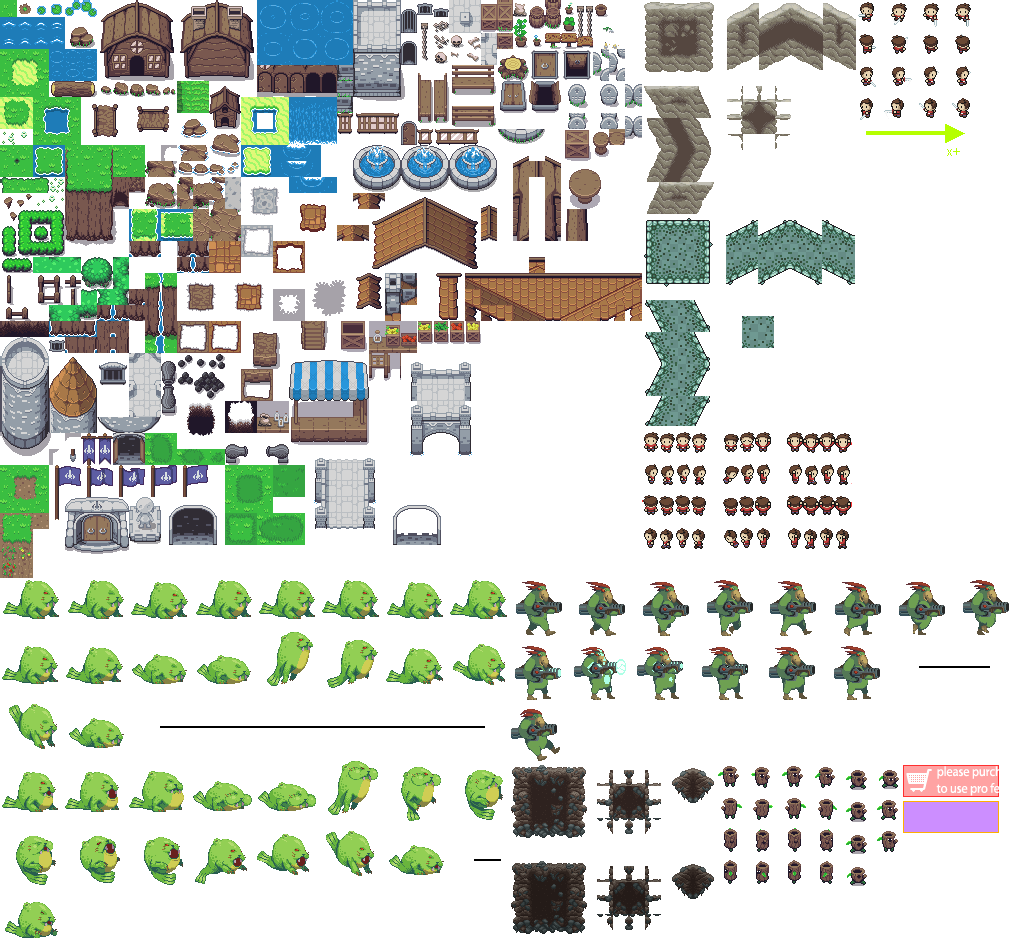
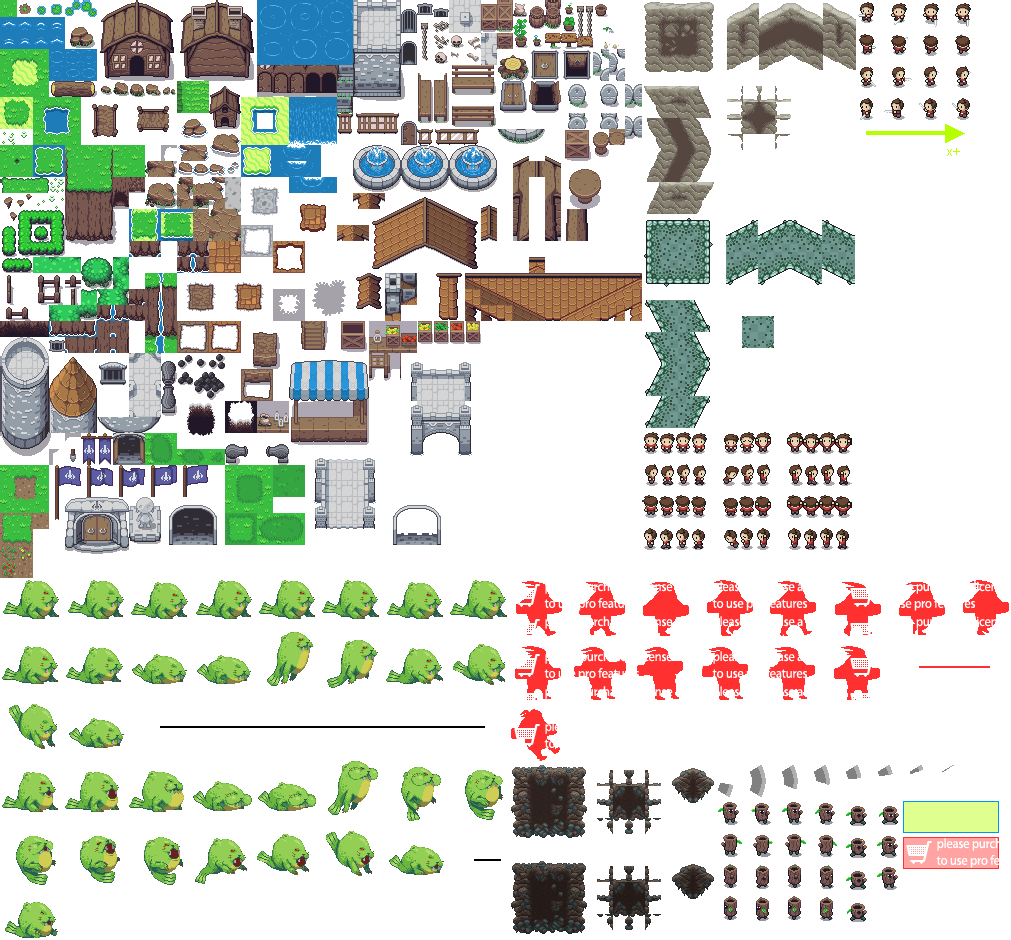
sword slash start

Changed region(s): [[0.7052, 0.8021, 1.0, 0.9872], [0.4906, 0.617, 0.8892, 0.8021], [0.8892, 0.617, 1.0, 0.6787]]

diff --git a/Tygem/JS/game.js b/Tygem/JS/game.js
@@ -3732,6 +3732,23 @@ class SpriteRenderer extends PackedImageRenderer {
         this.isAnimationPlaying = () => {
             return this.animPlaying;
         };
+        this.isAtEndOfAnimation = () => {
+            if (this.animation === null)
+                return false;
+            if (this.animPlaying)
+                return false;
+            if (this.animSpeed >= 0) {
+                if (this.animTime >= this.animation.getDuration() - .0002) {
+                    return true;
+                }
+            }
+            else {
+                if (this.animTime <= .0001) {
+                    return true;
+                }
+            }
+            return false;
+        };
         this.getAnimationTime = () => {
             return this.animTime;
         };
@@ -3810,6 +3827,25 @@ class SpriteRenderer extends PackedImageRenderer {
         this.animSpeed = 1;
         this.animPlaying = false;
         this.name = "SpriteRenderer";
+    }
+}
+class VisualEffect extends Component {
+    constructor() {
+        super();
+        this.onStart = () => {
+            this.spriteRenderer = this.getComponent(SpriteRenderer);
+        };
+        this.onUpdate = () => {
+            if (this.spriteRenderer.isAtEndOfAnimation()) {
+                this.gameObject.markForDestroy();
+            }
+        };
+        this.onDestroy = () => {
+            this.spriteRenderer = null;
+        };
+        this.spriteRenderer = null;
+        this.name = "VisualEffect";
+        this.componentProperties.requireComponent(SpriteRenderer);
     }
 }
 class ReceivesDamage extends Component {
@@ -6429,9 +6465,11 @@ Animation.addAnimation("hero_idle_up", "hero/walk.png", [26], 10, true);
 Animation.addAnimation("hero_walk_down", "hero/walk.png", [0, 1, 2, 3], 8, true);
 Animation.addAnimation("hero_walk_right", "hero/walk.png", [13, 14, 15, 16], 8, true);
 Animation.addAnimation("hero_walk_up", "hero/walk.png", [26, 27, 28, 29], 8, true);
-Animation.addAnimation("hero_slash_down", "hero/attack.png", [0, 1, 2, 3], 15, false);
-Animation.addAnimation("hero_slash_up", "hero/attack.png", [4, 5, 6, 7], 15, false);
-Animation.addAnimation("hero_slash_right", "hero/attack.png", [8, 9, 10, 11], 15, false);
+Animation.addAnimation("hero_slash_down", "hero/attack.png", [0, 1, 2, 3], 4 / .2, false);
+Animation.addAnimation("hero_slash_up", "hero/attack.png", [4, 5, 6, 7], 4 / .2, false);
+Animation.addAnimation("hero_slash_right", "hero/attack.png", [8, 9, 10, 11], 4 / .2, false);
+Spritesheet.addSpritesheet("hero/sword slash.png", 32, 48, 8, 8);
+Animation.addAnimation("hero_sword_slash", "hero/sword slash.png", [0, 1, 2, 3, 4, 5, 6, 7], 8 / .25, false);
 Spritesheet.addSpritesheet("log/log.png", 32, 32, 6, 23);
 Animation.addAnimation("log_idle_down", "log/log.png", [0], 10, true);
 Animation.addAnimation("log_idle_up", "log/log.png", [6], 10, true);
@@ -7700,10 +7738,10 @@ var Comps;
     class Hero extends Component {
         constructor() {
             super();
-            this.speed = 70;
+            this.speed = 90;
             this.accel = 500;
-            this.friction = 700;
-            this.slashDuration = .3;
+            this.friction = 800;
+            this.slashDuration = .25;
             this.onStart = () => {
                 this.actor = this.getComponent(Actor);
                 this.spriteRenderer = this.getComponent(SpriteRenderer);
@@ -7827,24 +7865,42 @@ var Comps;
                     return;
                 this.state = Hero_State.SLASH;
                 this.time = 0;
+                let slashOffsetMag = 16;
+                let rect = this.actor.getRect();
+                let ssGO = Prefabs.SwordSlash();
                 let anim = "";
                 switch (this.faceDirection) {
                     case Direction.LEFT:
+                        anim = "hero_slash_right";
+                        ssGO.transform.x = rect.x - slashOffsetMag;
+                        ssGO.transform.y = rect.y + rect.height / 2;
+                        ssGO.transform.scaleX = -1;
+                        break;
                     case Direction.RIGHT:
                         anim = "hero_slash_right";
+                        ssGO.transform.x = rect.x + rect.width + slashOffsetMag;
+                        ssGO.transform.y = rect.y + rect.height / 2;
                         break;
                     case Direction.UP:
                         anim = "hero_slash_up";
+                        ssGO.transform.x = rect.x + rect.width / 2;
+                        ssGO.transform.y = rect.y - slashOffsetMag;
+                        ssGO.transform.rotation = -90;
                         break;
                     case Direction.DOWN:
                         anim = "hero_slash_down";
+                        ssGO.transform.x = rect.x + rect.width / 2;
+                        ssGO.transform.y = rect.y + rect.height + slashOffsetMag;
+                        ssGO.transform.rotation = 90;
                         break;
                 }
                 this.spriteRenderer.playAnimation(anim);
             };
             this.updateAnimation = () => {
+                if ((this.faceDirection === Direction.LEFT) === this.transform.scaleX > 0) {
+                    this.transform.scaleX *= -1;
+                }
                 let anim = "hero";
-                let flipped = false;
                 switch (this.state) {
                     case Hero_State.NONE:
                     case Hero_State.SLASH:
@@ -7860,7 +7916,6 @@ var Comps;
                     case Direction.NONE:
                         return;
                     case Direction.LEFT:
-                        flipped = true;
                     case Direction.RIGHT:
                         anim += "_right";
                         break;
@@ -7870,9 +7925,6 @@ var Comps;
                     case Direction.DOWN:
                         anim += "_down";
                         break;
-                }
-                if (flipped === this.transform.scaleX > 0) {
-                    this.transform.scaleX *= -1;
                 }
                 if (this.spriteRenderer.getAnimation() === null ||
                     this.spriteRenderer.getAnimation().name !== anim) {
@@ -8270,6 +8322,18 @@ var Prefabs;
     }
     Prefabs.Sealime = Sealime;
     TiledMap.addObjectParser("Sealime", Sealime);
+})(Prefabs || (Prefabs = {}));
+var Prefabs;
+(function (Prefabs) {
+    function SwordSlash() {
+        let go = new GameObject();
+        let sr = go.addComponent(SpriteRenderer);
+        sr.imageSmoothingEnabled = false;
+        sr.playAnimation("hero_sword_slash");
+        let ve = go.addComponent(VisualEffect);
+        return go;
+    }
+    Prefabs.SwordSlash = SwordSlash;
 })(Prefabs || (Prefabs = {}));
 var Prefabs;
 (function (Prefabs) {

diff --git a/Tygem/Code/Components/Hero.ts b/Tygem/Code/Components/Hero.ts
@@ -11,10 +11,10 @@ namespace Comps {
 
     export class Hero extends Component {
 
-        speed: number = 70;
+        speed: number = 90;
         accel: number = 500;
-        friction: number = 700;
-        slashDuration: number = .3;
+        friction: number = 800;
+        slashDuration: number = .25;
 
         
         constructor() {
@@ -173,17 +173,35 @@ namespace Comps {
             this.state = Hero_State.SLASH;
             this.time = 0;
 
+            // spawn slash effect
+            let slashOffsetMag: number = 16;
+            let rect: Rect = this.actor.getRect();
+            let ssGO: GameObject = Prefabs.SwordSlash();
+
             let anim: string = "";
             switch (this.faceDirection) {
                 case Direction.LEFT:
+                    anim = "hero_slash_right"; // hero is flipped
+                    ssGO.transform.x = rect.x - slashOffsetMag;
+                    ssGO.transform.y = rect.y + rect.height / 2;
+                    ssGO.transform.scaleX = -1;
+                    break;
                 case Direction.RIGHT:
                     anim = "hero_slash_right";
+                    ssGO.transform.x = rect.x + rect.width + slashOffsetMag;
+                    ssGO.transform.y = rect.y + rect.height / 2;
                     break;
                 case Direction.UP:
                     anim = "hero_slash_up";
+                    ssGO.transform.x = rect.x + rect.width / 2;
+                    ssGO.transform.y = rect.y - slashOffsetMag;
+                    ssGO.transform.rotation = -90;
                     break;
                 case Direction.DOWN:
                     anim = "hero_slash_down";
+                    ssGO.transform.x = rect.x + rect.width / 2;
+                    ssGO.transform.y = rect.y + rect.height + slashOffsetMag;
+                    ssGO.transform.rotation = 90;
                     break;
             }
             this.spriteRenderer.playAnimation(anim);
@@ -191,12 +209,16 @@ namespace Comps {
 
         private updateAnimation = (): void => {
 
+            // flip around
+            if ((this.faceDirection === Direction.LEFT) === this.transform.scaleX > 0) {
+                this.transform.scaleX *= -1;
+            }
+
             let anim: string = "hero";
-            let flipped: boolean = false;
             switch (this.state) {
                 case Hero_State.NONE:
                 case Hero_State.SLASH:
-                    // no need to set
+                    // no need to set, return
                     return;
                 case Hero_State.IDLE:
                     anim += "_idle";
@@ -210,7 +232,6 @@ namespace Comps {
                 case Direction.NONE:
                     return;
                 case Direction.LEFT:
-                    flipped = true;
                 case Direction.RIGHT:
                     anim += "_right";
                     break;
@@ -221,11 +242,7 @@ namespace Comps {
                     anim += "_down";
                     break;
             }
-
-            if (flipped === this.transform.scaleX > 0) {
-                this.transform.scaleX *= -1;
-            }
-
+            
             if (this.spriteRenderer.getAnimation() === null ||
                 this.spriteRenderer.getAnimation().name !== anim) {
                 this.spriteRenderer.playAnimation(anim);

diff --git a/Tygem/Code/add_Textures.ts b/Tygem/Code/add_Textures.ts
@@ -40,9 +40,12 @@ Animation.addAnimation("hero_walk_down", "hero/walk.png", [0, 1, 2, 3], 8, true)
 Animation.addAnimation("hero_walk_right", "hero/walk.png", [13, 14, 15, 16], 8, true);
 Animation.addAnimation("hero_walk_up", "hero/walk.png", [26, 27, 28, 29], 8, true);
 
-Animation.addAnimation("hero_slash_down", "hero/attack.png", [0, 1, 2, 3], 15, false);
-Animation.addAnimation("hero_slash_up", "hero/attack.png", [4, 5, 6, 7], 15, false);
-Animation.addAnimation("hero_slash_right", "hero/attack.png", [8, 9, 10, 11], 15, false);
+Animation.addAnimation("hero_slash_down", "hero/attack.png", [0, 1, 2, 3], 4 / .2, false);
+Animation.addAnimation("hero_slash_up", "hero/attack.png", [4, 5, 6, 7], 4 / .2, false);
+Animation.addAnimation("hero_slash_right", "hero/attack.png", [8, 9, 10, 11], 4 / .2, false);
+
+Spritesheet.addSpritesheet("hero/sword slash.png", 32, 48, 8, 8);
+Animation.addAnimation("hero_sword_slash", "hero/sword slash.png", [0, 1, 2, 3, 4, 5, 6, 7], 8 / .25, false);
 
 
 Spritesheet.addSpritesheet("log/log.png", 32, 32, 6, 23);

diff --git a/Tygem/Tygem/SpriteRenderer.ts b/Tygem/Tygem/SpriteRenderer.ts
@@ -148,6 +148,26 @@ class SpriteRenderer extends PackedImageRenderer {
     }
 
     /**
+     * If the current animation played and stopped upon reaching the end.
+     * Will never be true if the animation loops.
+     * Returns false if getAnimation() would return null.
+     */
+    isAtEndOfAnimation = (): boolean => {
+        if (this.animation === null) return false;
+        if (this.animPlaying) return false;
+        if (this.animSpeed >= 0) { // playing forward
+            if (this.animTime >= this.animation.getDuration() - .0002) { // if is at last frame
+                return true;
+            }
+        } else { // playing backward
+            if (this.animTime <= .0001) { // if is at first frame
+                return true;
+            }
+        }
+        return false;
+    }
+
+    /**
      * Gets the current time for playing the current animation.
      */
     getAnimationTime = (): number => {

diff --git a/Tygem/Tygem/Rect.ts b/Tygem/Tygem/Rect.ts
@@ -26,8 +26,8 @@ class Rect {
     }
 
     /**
-        * Returns if this rectangle overlaps the given rectangle.
-        */
+     * Returns if this rectangle overlaps the given rectangle.
+     */
     overlaps = (rect: Rect): boolean => {
 
         if (this.x + this.width < rect.x) return false;
@@ -39,14 +39,20 @@ class Rect {
     }
 
     /**
-        * Returns if this rectangle contains the given point.
-        */
+     * Returns if this rectangle contains the given point.
+     */
     containsPoint = (x: number, y: number): boolean => {
         return this.x <= x && x <= this.x + this.width &&
             this.y <= y && y <= this.y + this.height;
     }
 
+    /**
+     * x of the left side of the rectangle.
+     */
     x: number;
+    /**
+     * y of the top side of the rectangle.
+     */
     y: number;
     width: number;
     height: number;

diff --git a/Tygem/Tygem/VisualEffect.ts b/Tygem/Tygem/VisualEffect.ts
@@ -1,0 +1,32 @@
+/// <reference path="_ref.ts" />
+
+/**
+ * Destroys the gameObject once the animation of the SpriteRenderer component finishes
+ */
+class VisualEffect extends Component {
+
+    constructor() {
+        super();
+        this.name = "VisualEffect";
+
+        this.componentProperties.requireComponent(SpriteRenderer);
+    }
+
+    onStart = (): void => {
+        this.spriteRenderer = this.getComponent(SpriteRenderer);
+    }
+
+    onUpdate = (): void => {
+        if (this.spriteRenderer.isAtEndOfAnimation()) {
+            this.gameObject.markForDestroy();
+        }
+    }
+    
+    onDestroy = (): void => {
+        this.spriteRenderer = null;
+    }
+
+    private spriteRenderer: SpriteRenderer = null;
+
+}
+

diff --git a/Tygem/Code/Prefabs/SwordSlash.ts b/Tygem/Code/Prefabs/SwordSlash.ts
@@ -1,0 +1,18 @@
+/// <reference path="../../Tygem/_ref.ts" />
+
+namespace Prefabs {
+
+    export function SwordSlash(): GameObject {
+
+        let go: GameObject = new GameObject();
+
+        let sr: SpriteRenderer = go.addComponent(SpriteRenderer);
+        sr.imageSmoothingEnabled = false;
+        sr.playAnimation("hero_sword_slash");
+
+        let ve: VisualEffect = go.addComponent(VisualEffect);
+
+        return go;
+    }
+
+}

diff --git a/Tygem/Tygem/_ref.ts b/Tygem/Tygem/_ref.ts
@@ -42,6 +42,7 @@
 /// <reference path="DrawerComponent.ts" />
 /// <reference path="PackedImageRenderer.ts" />
 /// <reference path="SpriteRenderer.ts" />
+/// <reference path="VisualEffect.ts" />
 /// <reference path="ReceivesDamage.ts" />
 /// <reference path="TextArea.ts" />
 /// <reference path="InputTextArea.ts" />
